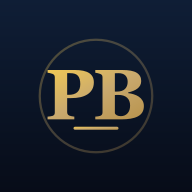
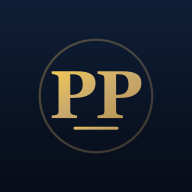
Rebrand PakStyle BD -> PakiPoshak; manifest scope to root for user-site
- All visible text, title, manifest name, email subjects -> PakiPoshak
- New PP gold monogram icons (192/512/apple-touch)
- manifest start_url/scope -> / (for pakiposhak.github.io root site)
- sw cache bumped to psb-v2 (scope change)

Changed region(s): [[0.2188, 0.3438, 0.75, 0.625], [0.6875, 0.375, 0.75, 0.4062]]

diff --git a/index.html b/index.html
@@ -9,12 +9,12 @@
   <meta http-equiv="Cache-Control" content="no-cache, no-store, must-revalidate"/>
   <meta http-equiv="Pragma" content="no-cache"/>
   <meta http-equiv="Expires" content="0"/>
-  <title>PakStyle BD – Pakistani Fashion Delivered to Bangladesh</title>
+  <title>PakiPoshak – Pakistani Fashion Delivered to Bangladesh</title>
   <meta name="description" content="Order authentic Pakistani lawn, pret & designer clothes. We purchase from Pakistan and deliver to your door in Bangladesh."/>
   <meta name="theme-color" content="#080E1C"/>
   <meta name="apple-mobile-web-app-capable" content="yes"/>
   <meta name="apple-mobile-web-app-status-bar-style" content="black-translucent"/>
-  <meta name="apple-mobile-web-app-title" content="PakStyle BD"/>
+  <meta name="apple-mobile-web-app-title" content="PakiPoshak"/>
   <link rel="manifest" href="manifest.json"/>
   <link rel="apple-touch-icon" href="apple-touch-icon.png"/>
   <style>
@@ -367,7 +367,7 @@
     <div class="hdr-logo">
       <span class="hdr-logo-mark">🪡</span>
       <div>
-        <div class="hdr-brand">PakStyle BD</div>
+        <div class="hdr-brand">PakiPoshak</div>
         <div class="hdr-tagline">Pakistani Fashion · Bangladesh Delivery</div>
       </div>
     </div>
@@ -856,7 +856,7 @@
 <!-- iOS install instructions sheet -->
 <div id="iosInstallSheet" onclick="if(event.target===this)psbCloseIos()" style="display:none">
   <div class="ios-card">
-    <div class="ios-title">Install PakStyle BD</div>
+    <div class="ios-title">Install PakiPoshak</div>
     <p>To add this app to your iPhone home screen:</p>
     <ol>
       <li>Tap the <b>Share</b> button <span style="font-size:1.1rem">􀈂</span> at the bottom of Safari</li>
@@ -941,7 +941,7 @@
 
 <!-- Hidden form for Formspree -->
 <form id="hiddenForm" action="https://formspree.io/f/xnjypzyl" method="POST" style="display:none">
-  <input type="hidden" name="_subject" id="hf_subject" value="New PakStyle BD Order"/>
+  <input type="hidden" name="_subject" id="hf_subject" value="New PakiPoshak Order"/>
   <input type="hidden" name="_replyto" id="hf_replyto"/>
   <input type="hidden" name="order_id" id="hf_order_id"/>
   <input type="hidden" name="buyer_name" id="hf_name"/>
@@ -2755,8 +2755,8 @@
         headers: { 'Content-Type': 'application/json', 'Accept': 'application/json' },
         body: JSON.stringify(Object.assign({
           access_key: WEB3FORMS_KEY,
-          subject: `New PakStyle Order ${orderId} — ${name}`,
-          from_name: 'PakStyle BD Orders'
+          subject: `New PakiPoshak Order ${orderId} — ${name}`,
+          from_name: 'PakiPoshak Orders'
         }, payload))
       }).then(r => r.json()).then(j => j.success);
     } else {
@@ -3109,7 +3109,7 @@
     box.innerHTML =
       `<div style="max-width:680px;margin:0 auto">
         <h1 style="color:${allOk?'#4caf50':'#ff5252'};font-size:1.4rem">${allOk?'✅ ALL CHECKS PASSED':'❌ '+(total-pass)+' CHECK(S) FAILED'} <span style="color:#888;font-size:0.9rem">(${pass}/${total})</span></h1>
-        <p style="color:#888;font-size:0.85rem;margin:6px 0 16px">PakStyle BD self-test · run after every change. ${allOk?'Safe to use.':'Fix the red items before relying on the site.'}</p>
+        <p style="color:#888;font-size:0.85rem;margin:6px 0 16px">PakiPoshak self-test · run after every change. ${allOk?'Safe to use.':'Fix the red items before relying on the site.'}</p>
         ${res.map(r=>`<div style="display:flex;gap:10px;padding:9px 12px;border-bottom:1px solid #23233a;align-items:center">
             <span style="font-size:1.1rem">${r.pass?'🟢':'🔴'}</span>
             <span style="flex:1;font-size:0.9rem">${r.n}</span>
@@ -3125,7 +3125,7 @@
   // the tag in the bottom-right is older than expected, hard-refresh
   // (Ctrl+Shift+R / pull-to-refresh) to clear a stale cached page.
   const PSB_BUILD = '2026-06-12';
-  console.log('%cPakStyle BD · build '+PSB_BUILD, 'color:#c9a96e;font-weight:700;font-size:13px');
+  console.log('%cPakiPoshak · build '+PSB_BUILD, 'color:#c9a96e;font-weight:700;font-size:13px');
   document.addEventListener('DOMContentLoaded', () => {
     const tag = document.createElement('div');
     tag.textContent = 'v'+PSB_BUILD;

diff --git a/order-form.html b/order-form.html
@@ -9,12 +9,12 @@
   <meta http-equiv="Cache-Control" content="no-cache, no-store, must-revalidate"/>
   <meta http-equiv="Pragma" content="no-cache"/>
   <meta http-equiv="Expires" content="0"/>
-  <title>PakStyle BD – Pakistani Fashion Delivered to Bangladesh</title>
+  <title>PakiPoshak – Pakistani Fashion Delivered to Bangladesh</title>
   <meta name="description" content="Order authentic Pakistani lawn, pret & designer clothes. We purchase from Pakistan and deliver to your door in Bangladesh."/>
   <meta name="theme-color" content="#080E1C"/>
   <meta name="apple-mobile-web-app-capable" content="yes"/>
   <meta name="apple-mobile-web-app-status-bar-style" content="black-translucent"/>
-  <meta name="apple-mobile-web-app-title" content="PakStyle BD"/>
+  <meta name="apple-mobile-web-app-title" content="PakiPoshak"/>
   <link rel="manifest" href="manifest.json"/>
   <link rel="apple-touch-icon" href="apple-touch-icon.png"/>
   <style>
@@ -367,7 +367,7 @@
     <div class="hdr-logo">
       <span class="hdr-logo-mark">🪡</span>
       <div>
-        <div class="hdr-brand">PakStyle BD</div>
+        <div class="hdr-brand">PakiPoshak</div>
         <div class="hdr-tagline">Pakistani Fashion · Bangladesh Delivery</div>
       </div>
     </div>
@@ -856,7 +856,7 @@
 <!-- iOS install instructions sheet -->
 <div id="iosInstallSheet" onclick="if(event.target===this)psbCloseIos()" style="display:none">
   <div class="ios-card">
-    <div class="ios-title">Install PakStyle BD</div>
+    <div class="ios-title">Install PakiPoshak</div>
     <p>To add this app to your iPhone home screen:</p>
     <ol>
       <li>Tap the <b>Share</b> button <span style="font-size:1.1rem">􀈂</span> at the bottom of Safari</li>
@@ -941,7 +941,7 @@
 
 <!-- Hidden form for Formspree -->
 <form id="hiddenForm" action="https://formspree.io/f/xnjypzyl" method="POST" style="display:none">
-  <input type="hidden" name="_subject" id="hf_subject" value="New PakStyle BD Order"/>
+  <input type="hidden" name="_subject" id="hf_subject" value="New PakiPoshak Order"/>
   <input type="hidden" name="_replyto" id="hf_replyto"/>
   <input type="hidden" name="order_id" id="hf_order_id"/>
   <input type="hidden" name="buyer_name" id="hf_name"/>
@@ -2755,8 +2755,8 @@
         headers: { 'Content-Type': 'application/json', 'Accept': 'application/json' },
         body: JSON.stringify(Object.assign({
           access_key: WEB3FORMS_KEY,
-          subject: `New PakStyle Order ${orderId} — ${name}`,
-          from_name: 'PakStyle BD Orders'
+          subject: `New PakiPoshak Order ${orderId} — ${name}`,
+          from_name: 'PakiPoshak Orders'
         }, payload))
       }).then(r => r.json()).then(j => j.success);
     } else {
@@ -3109,7 +3109,7 @@
     box.innerHTML =
       `<div style="max-width:680px;margin:0 auto">
         <h1 style="color:${allOk?'#4caf50':'#ff5252'};font-size:1.4rem">${allOk?'✅ ALL CHECKS PASSED':'❌ '+(total-pass)+' CHECK(S) FAILED'} <span style="color:#888;font-size:0.9rem">(${pass}/${total})</span></h1>
-        <p style="color:#888;font-size:0.85rem;margin:6px 0 16px">PakStyle BD self-test · run after every change. ${allOk?'Safe to use.':'Fix the red items before relying on the site.'}</p>
+        <p style="color:#888;font-size:0.85rem;margin:6px 0 16px">PakiPoshak self-test · run after every change. ${allOk?'Safe to use.':'Fix the red items before relying on the site.'}</p>
         ${res.map(r=>`<div style="display:flex;gap:10px;padding:9px 12px;border-bottom:1px solid #23233a;align-items:center">
             <span style="font-size:1.1rem">${r.pass?'🟢':'🔴'}</span>
             <span style="flex:1;font-size:0.9rem">${r.n}</span>
@@ -3125,7 +3125,7 @@
   // the tag in the bottom-right is older than expected, hard-refresh
   // (Ctrl+Shift+R / pull-to-refresh) to clear a stale cached page.
   const PSB_BUILD = '2026-06-12';
-  console.log('%cPakStyle BD · build '+PSB_BUILD, 'color:#c9a96e;font-weight:700;font-size:13px');
+  console.log('%cPakiPoshak · build '+PSB_BUILD, 'color:#c9a96e;font-weight:700;font-size:13px');
   document.addEventListener('DOMContentLoaded', () => {
     const tag = document.createElement('div');
     tag.textContent = 'v'+PSB_BUILD;

diff --git a/sw.js b/sw.js
@@ -1,4 +1,4 @@
-/* PakStyle BD service worker.
+/* PakiPoshak service worker.
  *
  * Goals:
  *  - Make the site an installable PWA (Android "Install app", iOS "Add to Home Screen").
@@ -10,7 +10,7 @@
  *  - NEVER touch cross-origin requests (Shopify product fetches, Apps Script order
  *    submission, Formspree). Those must always hit the network untouched.
  */
-const CACHE_VERSION = 'psb-v1';
+const CACHE_VERSION = 'psb-v2';
 const APP_SHELL = [
   './',
   './index.html',

diff --git a/CLAUDE.md b/CLAUDE.md
@@ -1,17 +1,18 @@
-# PakStyle BD — Claude Project Brief
+# PakiPoshak — Claude Project Brief
+> Renamed from "PakStyle BD" → **PakiPoshak** (final). Live URL moved to a root user-site: `pakiposhak.github.io`.
 
 ## What this is
 Pakistani fashion import order form for Bangladeshi buyers. Customers paste Shopify product URLs,
 build a cart, and submit — Danish (operator) purchases & ships from Pakistan to Bangladesh.
 
-- **Live site:** https://pakstyles2bd.github.io/Pakstyle-BD/
-- **GitHub repo:** https://github.com/pakstyles2bd/Pakstyle-BD
+- **Live site:** https://pakiposhak.github.io/  (root user-site)
+- **GitHub repo:** https://github.com/pakiposhak/pakiposhak.github.io
 - **Master file:** `order-form.html` (always sync to `index.html` before pushing)
 - **No build step** — pure HTML/JS/CSS, no frameworks, no npm
 
 ## About the operator
 - **Danish Wazir**, Dhaka, Bangladesh
-- Business name: **Moors Attire / PakStyle BD** · Email: [email redacted]
+- Business name: **Moors Attire / PakiPoshak** · Email: [email redacted]
 - Also runs iGarage (automobile startup) and DW-Bridging (textile indenting)
 - Commission tiers are business-sensitive — **never expose to buyers**
 